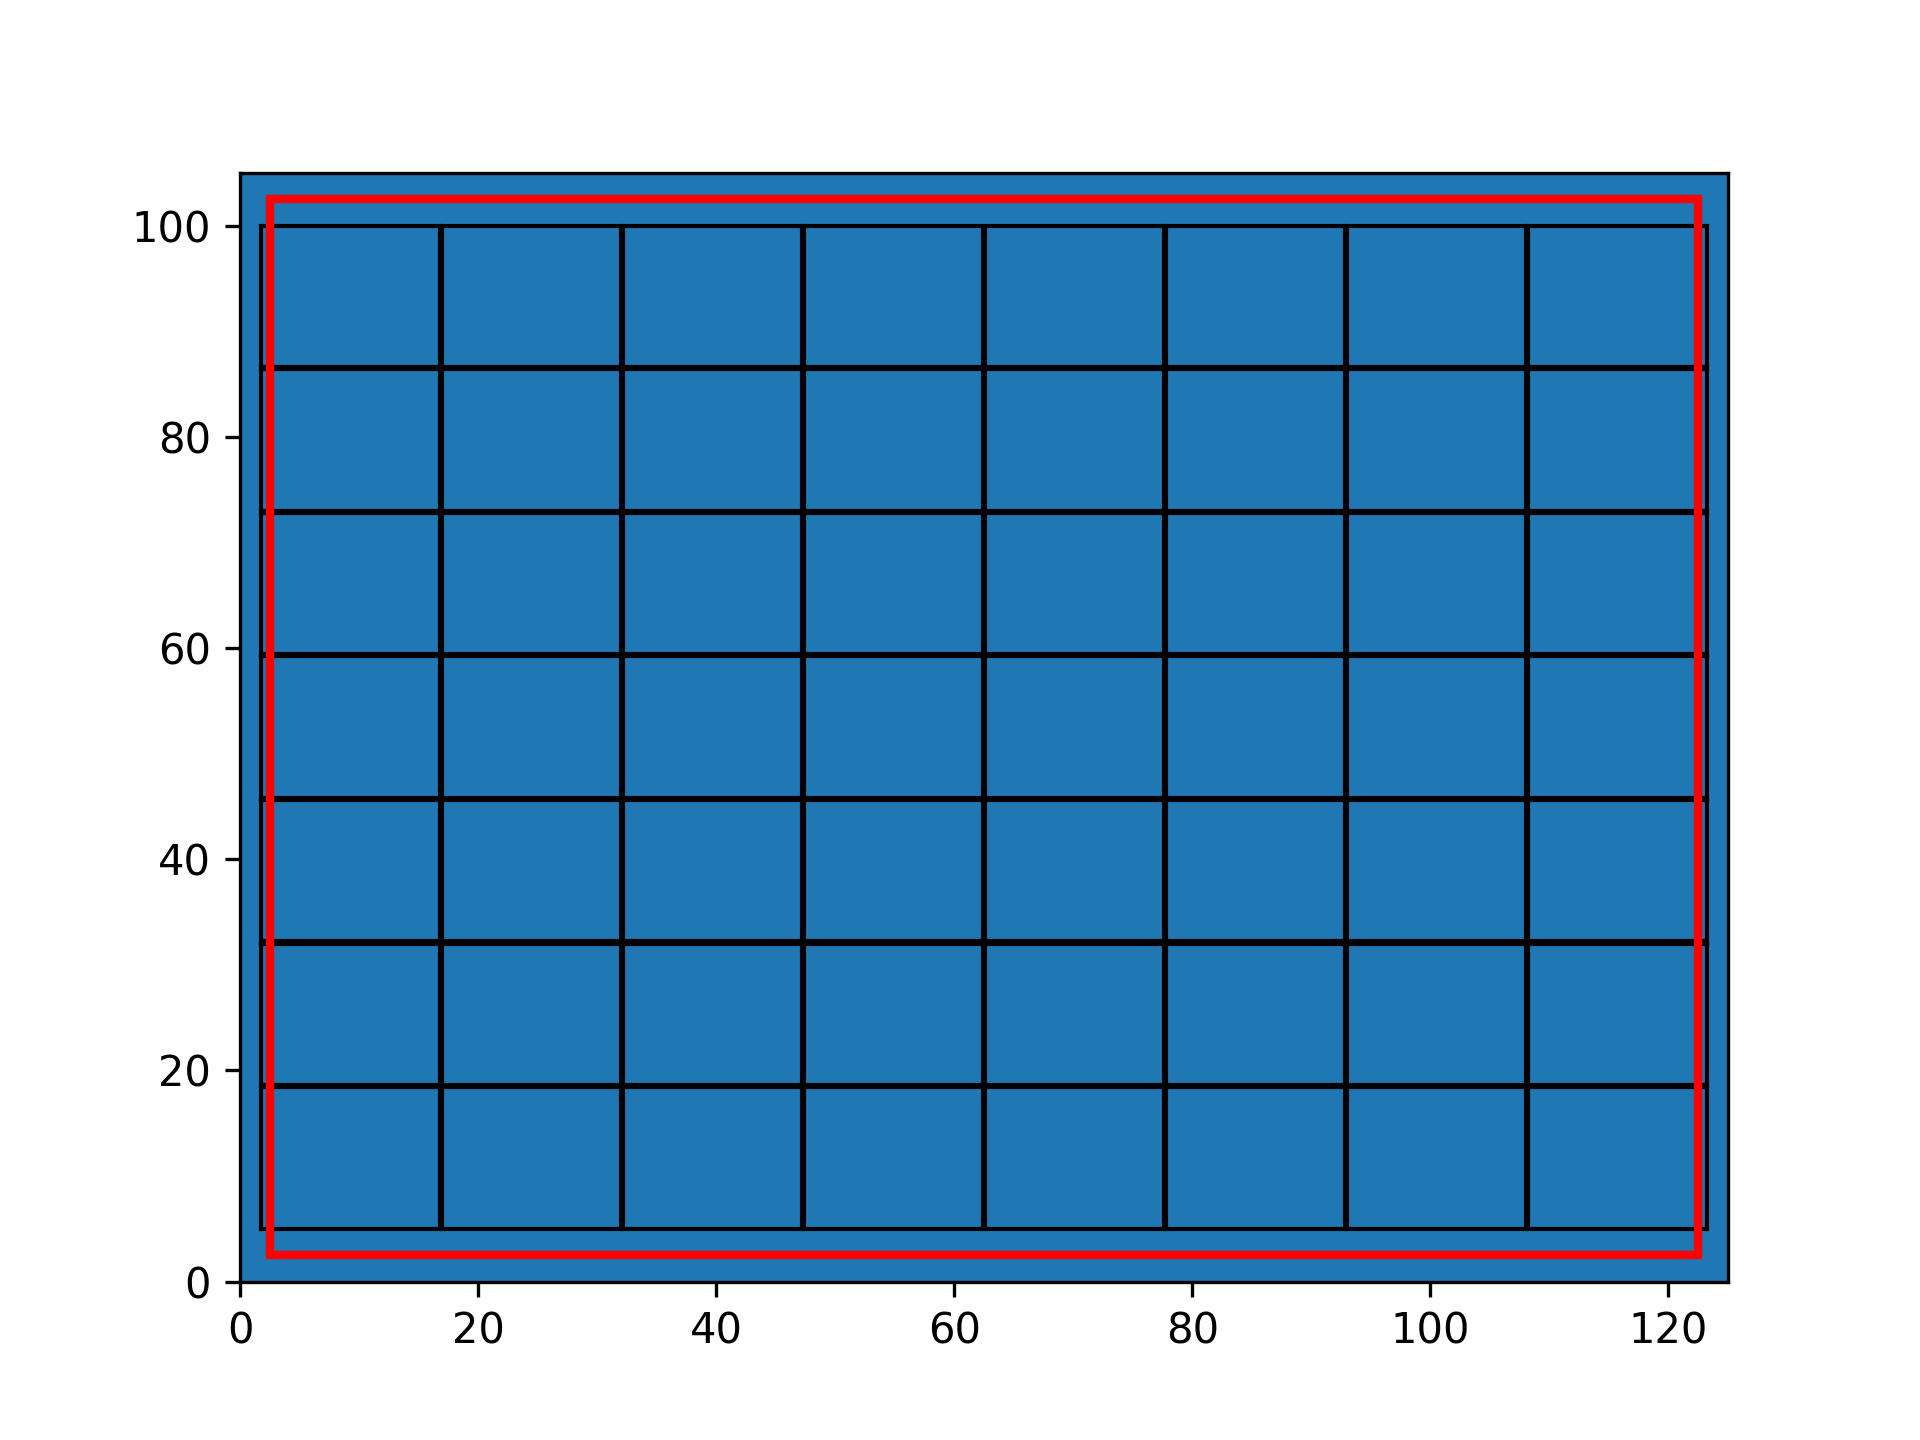
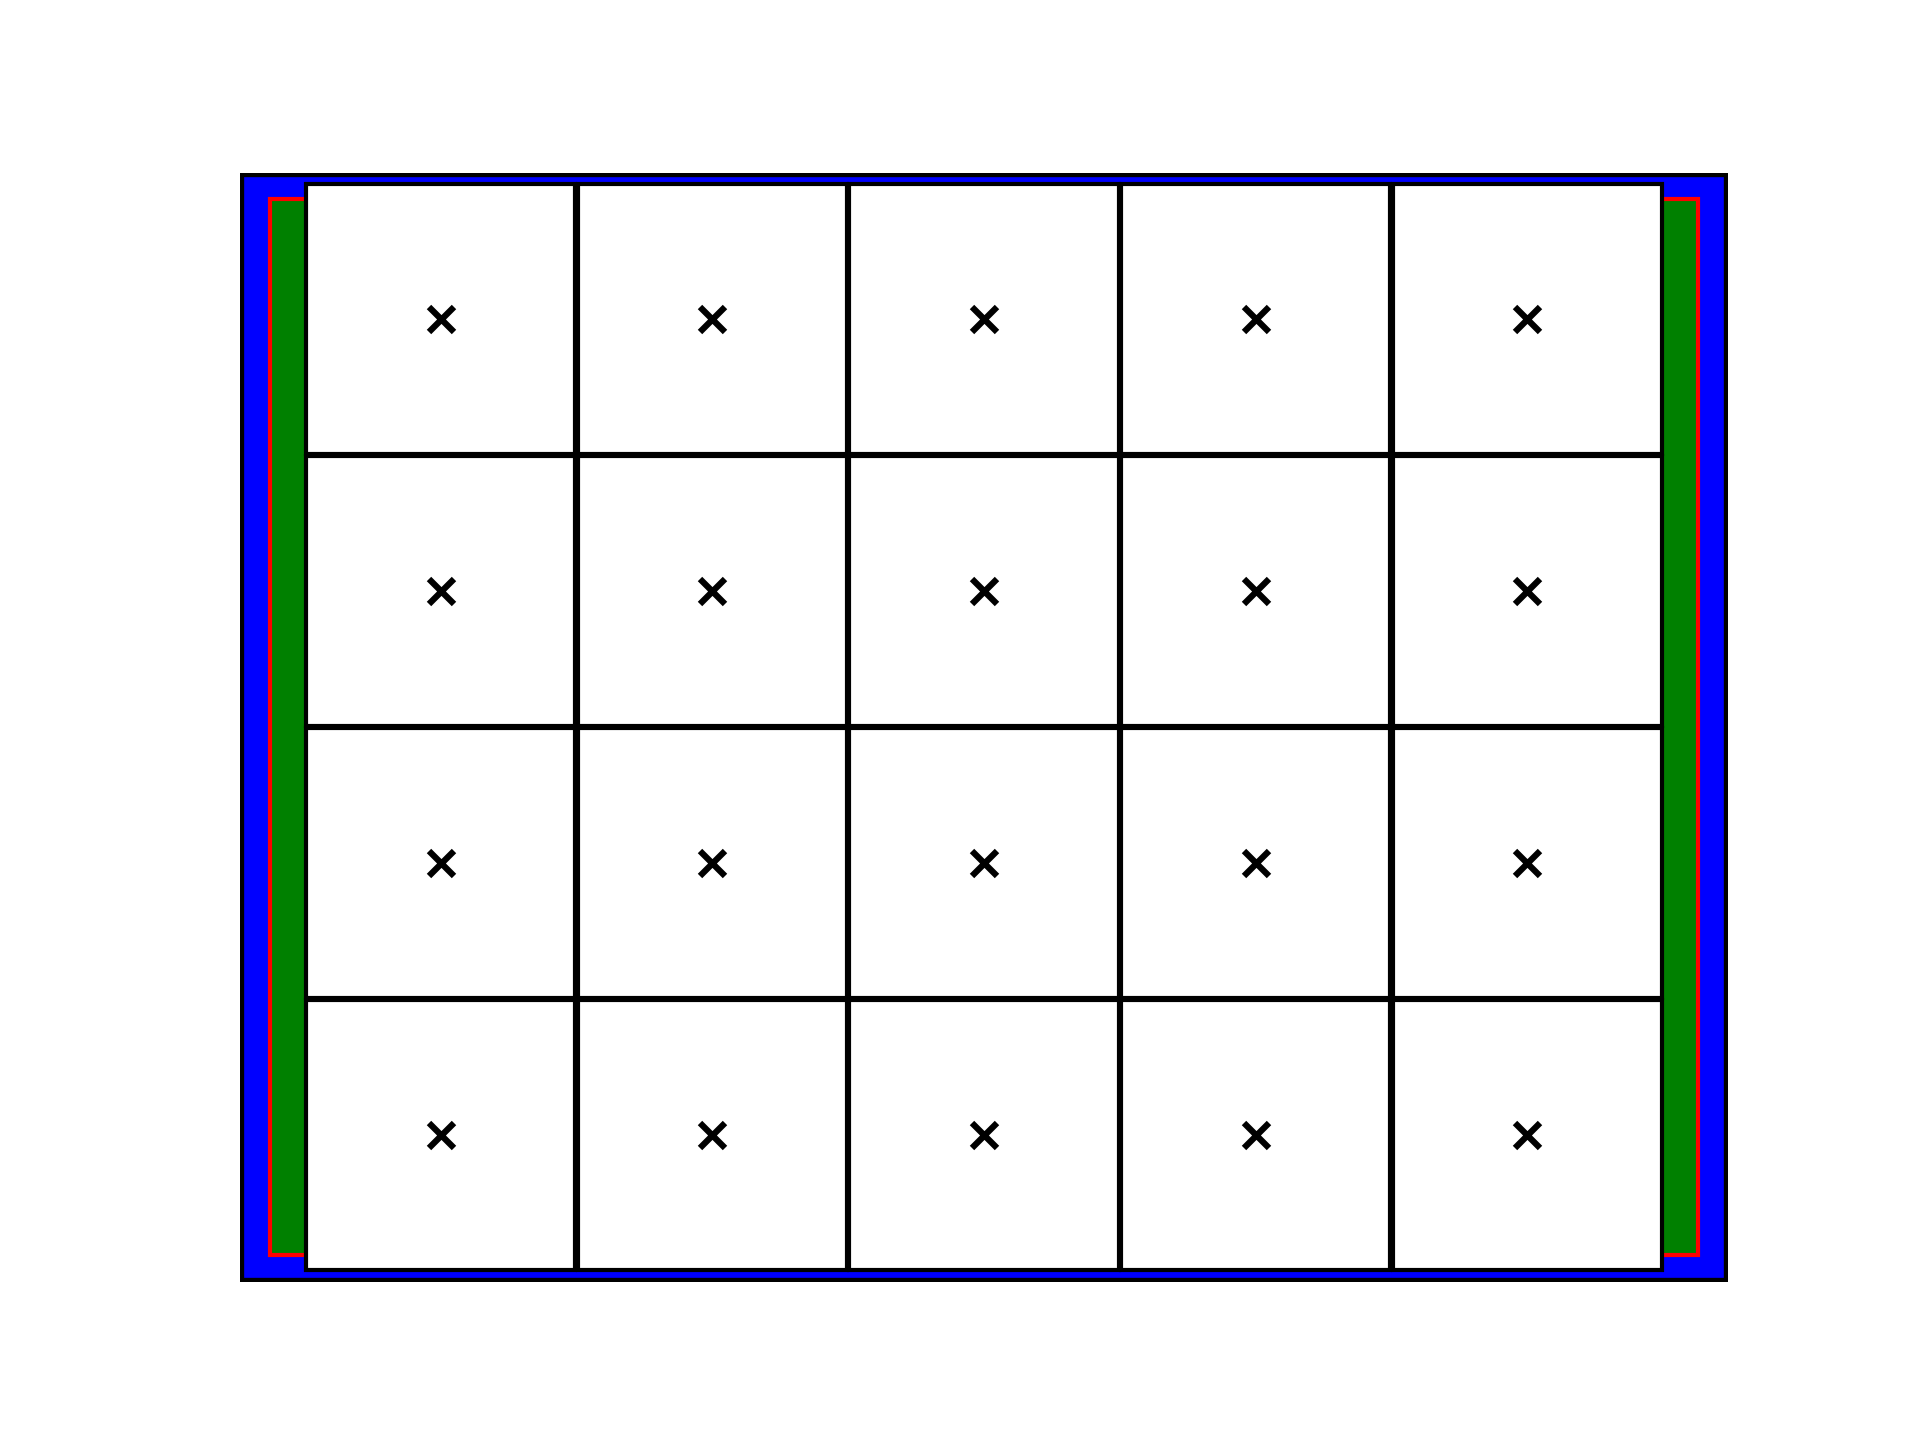
updates

diff --git a/GUI_main.py b/GUI_main.py
@@ -69,14 +69,13 @@ class App:
             writer.writerow(['x', 'y'])
 
             for hexagon in hexagons:
-                writer.writerow([round(hexagon.origin_x, 2), round(hexagon.origin_y, 2)])
+                writer.writerow([round(hexagon.origin_x - 2.5, 2), round(hexagon.origin_y - 2.5, 2)])
 
     def rectangle_test(self, weight, dest, console_log, total_actual_hexagon):
 
         rows = [(4, 5), (6, 7)]
         log_msg = ""
         max_number = 0
-        best_config = (0, 0)
         best_rect = []
 
         for row in rows:
@@ -90,18 +89,18 @@ class App:
             if single_rect * weight < 25:
                 if total_tubes > max_number:
                     max_number = total_tubes
-                    best_config = row
                     best_rect = rects
             else:
                 log_msg += f"ERRORE: Composizione {row} scartata per eccesso di peso\n"
                 console_log.config(state="normal")
                 console_log.insert(tk.END, log_msg)
                 console_log.config(state="disabled")
+                continue
 
         #log_msg = f"- Forma rettangolare: {best_config} - Peso: {round((best_config[1] * int((best_config[1] / 2)) + best_config[0] * (best_config[1] - int((best_config[1]) / 2))) * weight, 2)} Kg - Tubi totali: {max_number}\n"
         console_log.config(state="normal")
         console_log.insert(tk.END, log_msg)
-        console_log.config(state="disabled")   
+        console_log.config(state="disabled")  
         self.save_on_csv_rect(best_rect)
         draw_rects(best_rect)
         return max_number

diff --git a/folder_2/Draw.py b/folder_2/Draw.py
@@ -4,33 +4,41 @@ from matplotlib.patches import Polygon
 
 def draw_rectangles(rectangles):
     # Create a rectangle object with width=120 and height=100
-    rect = Rectangle((0, 0), 125, 105)
+    rect = Rectangle((0, 0), 125, 105, facecolor='blue', edgecolor='black', linewidth=2)
+    
+
 
     # Create a figure and axes object
     fig, ax = plt.subplots()
-
-
-
-
+    
     # Add the rectangle to the axes
     ax.add_patch(rect)
+
+    # Set the limits of the axes
+
+    rect_1 = Rectangle((2.5, 2.5), 120, 100, linewidth=1, edgecolor='red', facecolor='green')
+
+    ax.add_patch(rect_1)
+
+
+
 
     for rectangle in rectangles:
         
         verts = rectangle.verts
         
-        rectangle_polygon = Polygon(verts, fill=False)
+        rectangle_polygon = Polygon(verts, fill=True, facecolor='white', edgecolor='black', linewidth=1)
         ax.add_patch(rectangle_polygon)
+        # Plotting the dot
+        plt.scatter(rectangle.center_x, rectangle.center_y, color='black', marker='x')
         
-    # Set the limits of the axes
+        
 
-    rect_1 = Rectangle((2.5, 2.5), 120, 100, linewidth=2, edgecolor='red', facecolor='none')
-
-    ax.add_patch(rect_1)
 
     ax.set_xlim(0, 125)
     ax.set_ylim(0, 105)
 
+    plt.axis('off')
     # Display the plot
     #plt.show()
     #if (index == 9999):

diff --git a/folder_1/Draw.py b/folder_1/Draw.py
@@ -4,31 +4,42 @@ from matplotlib.patches import Polygon
 
 def draw_hexagons(hexagons):
     # Create a rectangle object with width=120 and height=100
-    rect = Rectangle((0, 0), 125, 105)
+    rect = Rectangle((0, 0), 125, 105, facecolor='blue', edgecolor='black', linewidth=2)
+    
+
 
     # Create a figure and axes object
     fig, ax = plt.subplots()
-
-
-
-
+    
     # Add the rectangle to the axes
     ax.add_patch(rect)
+    
+    rect_1 = Rectangle((2.5, 2.5), 120, 100, linewidth=1, edgecolor='red', facecolor='green')
+
+    ax.add_patch(rect_1)
+
+
+
+
+
 
     for hexagon in hexagons:
         verts = hexagon.verts
         
-        hexagon_polygon = Polygon(verts, fill=False)
+        hexagon_polygon = Polygon(verts, fill=True, facecolor='white', edgecolor='black', linewidth=1)
         ax.add_patch(hexagon_polygon)
+        # Plotting the dot
+        plt.scatter(hexagon.origin_x, hexagon.origin_y, color='black', marker='x')
+        
         
     # Set the limits of the axes
 
-    rect_1 = Rectangle((2.5, 2.5), 120, 100, linewidth=2, edgecolor='red', facecolor='none')
-
-    ax.add_patch(rect_1)
 
     ax.set_xlim(0, 125)
     ax.set_ylim(0, 105)
+    
+
+    plt.axis('off')
 
     # Display the plot
     #plt.show()

diff --git a/folder_1/Hexagon.py b/folder_1/Hexagon.py
@@ -30,22 +30,6 @@ class Hexagon:
                       (self.origin_x - self.vertical_side_length/2, self.origin_y + self.hex_height/2)
                       ]
 
-    ## Rotate the hexagon 90 degrees
-    def rotate90(self):
-        """
-        Rotates the hexagon 90 degrees clockwise.
-
-        Returns:
-        None.
-        """
-        self.verts = [(self.origin_y, self.origin_x - self.hex_width/2),
-                      (self.origin_y + self.hex_height/2, self.origin_x - self.vertical_side_length/2),
-                      (self.origin_y + self.hex_height/2, self.origin_x + self.vertical_side_length/2),
-                      (self.origin_y, self.origin_x + self.hex_width/2),
-                      (self.origin_y - self.hex_height/2, self.origin_x + self.vertical_side_length/2),
-                      (self.origin_y - self.hex_height/2, self.origin_x - self.vertical_side_length/2)
-                     ]
-
     ## Traslate the hexagon by a given slack
     def update_points(self, slack_x, slack_y):
         """

diff --git a/folder_2/Rectangle.py b/folder_2/Rectangle.py
@@ -39,10 +39,11 @@ class Rectangle:
             slack_x (float): The amount of slack to add to the x coordinates of the vertices.
             slack_y (float): The amount of slack to add to the y coordinates of the vertices.
         """
+        self.center_x += slack_x
+        self.center_y += slack_y
         for i in range(len(self.verts)):
             self.verts[i] = (self.verts[i][0] + slack_x, self.verts[i][1] + slack_y)
-            self.center_x += slack_x
-            self.center_y += slack_y
+
             
 
     def rotate90(self):

diff --git a/folder_2/CalculateDimension.py b/folder_2/CalculateDimension.py
@@ -36,6 +36,7 @@ def calculate_rectangle_dimensions(radius, short_side, long_side, rows, weight):
 
     if ratio < 1.12 or ratio > 1.14:
         raise ValueError("Invalid ratio")
+    
 
     frame = m.main(frame_width, tube_length)
     return frame

diff --git a/folder_2/Main.py b/folder_2/Main.py
@@ -39,6 +39,7 @@ def place_rect(L, l):
 
     slack_y = rect_height - last_origin[1] - l/2
     slack_x = rect_width - last_origin[0] - L/2
+    
 
     for rectangle in rectangles:
         rectangle.update_points(slack_x/2, slack_y/2)
